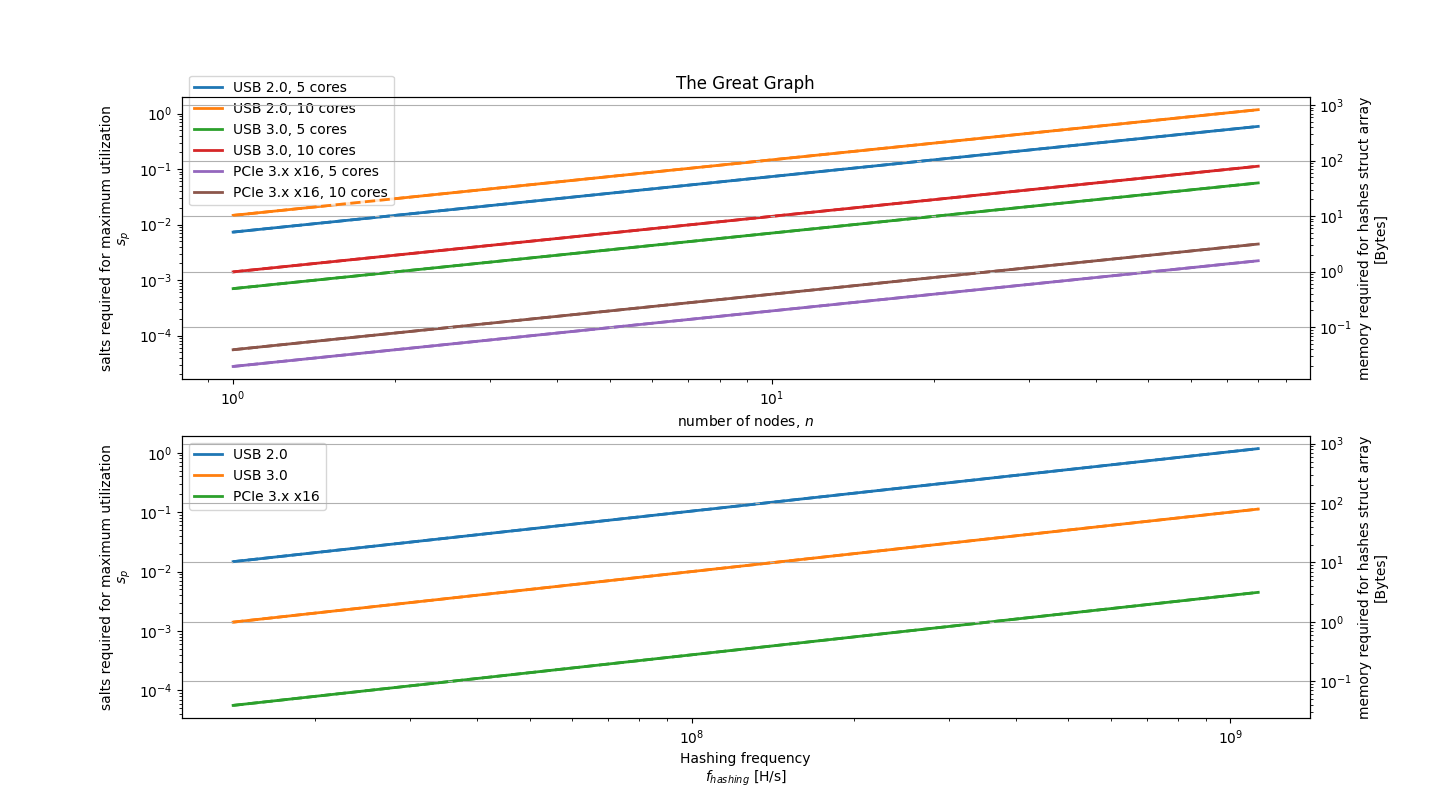
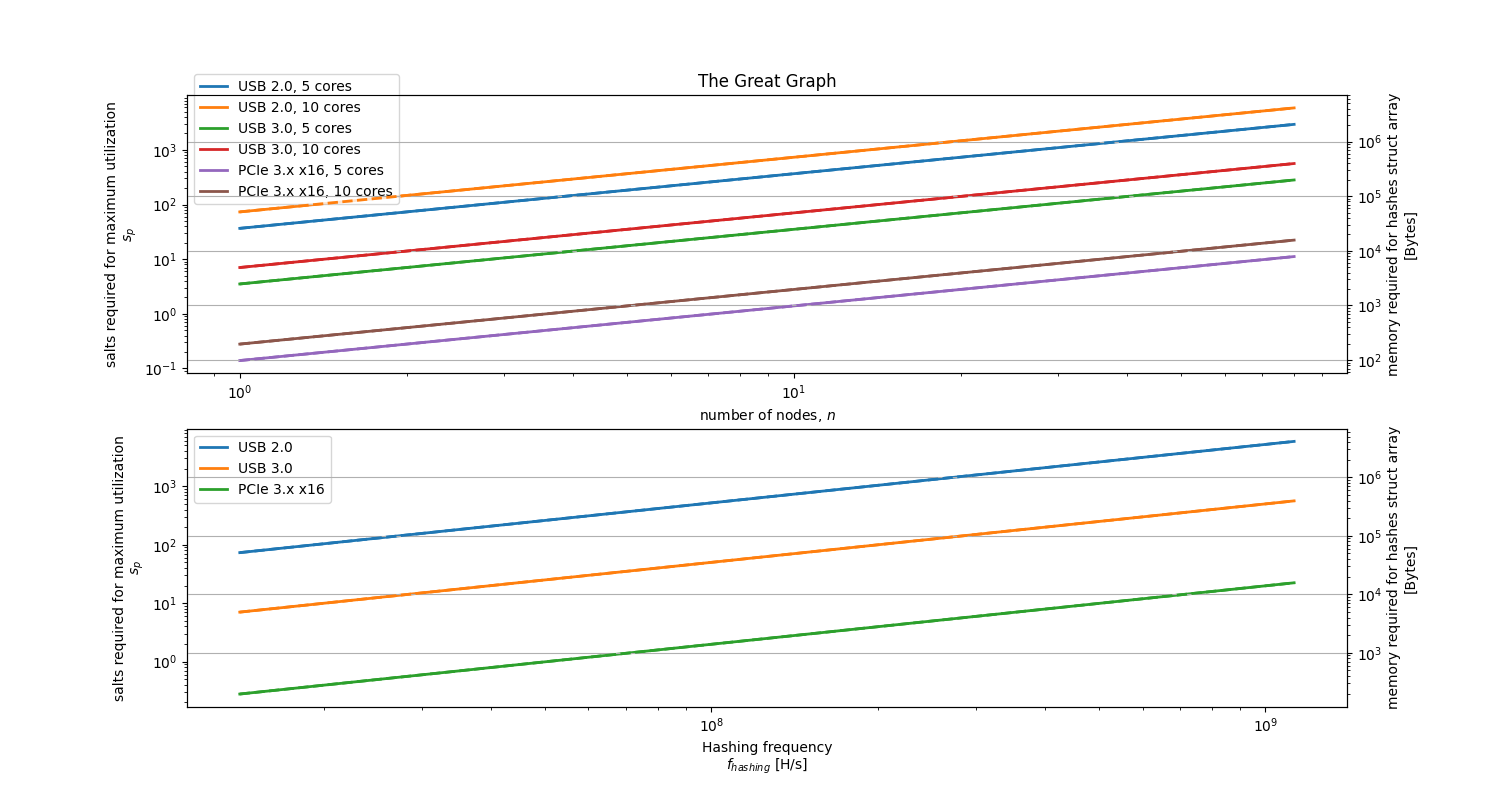
updated the greatgraph to run with 1 round

diff --git a/figures/theoretical_system/the_great_graph/le_graphe_de_Fleming.py b/figures/theoretical_system/the_great_graph/le_graphe_de_Fleming.py
@@ -14,7 +14,7 @@ except:
     log = False
 
 # Define constants
-n_rounds = 5000
+n_rounds = 1
 f_clk = 100e6
 passwd_len = 39
 hash_cycles = 71
